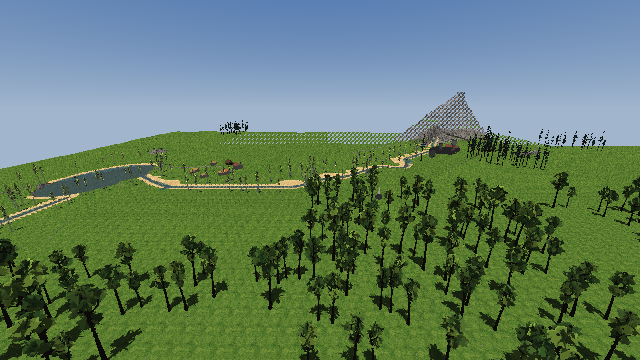
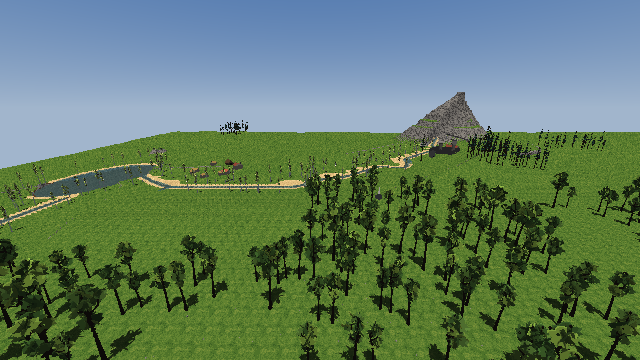
render: the checkerboard on the crag was the LOD dissolve caught in flight
The lead read a regular dither over the crag and the far terrain edge in the
first archived cloud frame and named two candidates: a cross-fade that never
completes, or the straddle-ring clip (293bba5) letting node and chunk draw the
same ground with one of them dissolving. The counterfactual separates them for
the cost of one run (Rule 30b): hold the SAME vantage stationary and re-shoot.
It comes back solid. So the fade does complete and nothing is double-drawing —
what the frame caught was the dissolve mid-motion.

The mistake was in reading TourStep::wait_frames as "long enough to settle"
when it only ever meant "frames rendered". LOD_FADE_SECONDS is 0.6 s, which
is 36 frames, so 75 looked generous — but far nodes are still ARRIVING from
core at frame 75, and each one starts its dissolve when it lands, not when the
camera stopped. Settle time is streaming latency PLUS the fade. The cloud probe
now waits 300 frames, and all six archived frames are re-shot from that hold.

Also disclosed in the acceptance README, because this is not a cloud fact: any
agent citing a far view is exposed to it, and the frame that showed it was
mine only by accident.

Frames replaced (same names, same recipes, settled): the drift pair now reads
cleanly — at t0 the valley floor is lit with the shadow edge off to the
south-west, at t30 a distinct shadow band has crossed the mid-ground and the
foreground has come up.

Changed region(s): [[0.375, 0.275, 0.75, 0.3972], [0.75, 0.3667, 1.0, 0.4278]]

diff --git a/engine/render/sources/Tour.cpp b/engine/render/sources/Tour.cpp
@@ -1,6 +1,6 @@
 /*
 Created: 09:08:2026 - 00:45:00
-Last updated: 10:08:2026 - 03:11:00
+Last updated: 10:08:2026 - 11:10:53
 Module: engine/render
 File: engine/render/sources/Tour.cpp
 
@@ -51,6 +51,15 @@ UPD:
   acceptance vantage, aimed at a MIXED background rather than at a chart.
 - 10:08:2026 - 03:11:00: cloud_probe_steps() (DFN_CLOUD_PROBE=1) — the W4
   shoot: shadow-patterned valley floor + upwind cumulus horizon.
+- 10:08:2026 - 11:10:53: cloud probe waits 300 frames, not 75/30. The lead read a
+  CHECKERBOARD over the crag in the first archived frame. It is the LOD
+  screen-door cross-fade photographed in flight, not a stuck fade and not two
+  systems drawing the same ground: held stationary the same vantage comes back
+  solid, which is the counterfactual that separates them (Rule 30b). The
+  frame count was being read as "long enough to settle" when it only ever
+  meant "frames rendered"; far nodes are still ARRIVING from core at frame 75,
+  and each starts its 0.6 s dissolve when it lands, so the settle time is
+  streaming latency PLUS the fade, not the fade alone.
 */
 
 #include "engine/render/sources/Tour.h"
@@ -297,13 +306,13 @@ std::vector<TourStep> Tour::cloud_probe_steps() {
     // (the W4 acceptance wording). Shot at noon (DFN_TIME=0.5) the sun is
     // near-overhead, so sheet and shadow line up visibly in one frame.
     steps.push_back({"cloud_shadows_valley", {pos.x, 85.0f, pos.y},
-                     aim_yaw(pos, {500.0f, 380.0f}), -0.30f, 75, true});
+                     aim_yaw(pos, {500.0f, 380.0f}), -0.30f, 300, true});
     // (2) THE UPWIND FRAME: same standpoint aimed into the wind (the default
     // wind blows from the WNW: WindModel's {0.87, 0.50} heading), pitched up
     // for sky headroom. This is where the cumulus announcement must stand
     // (W2.3) and where both sheets show their parallax and drift.
     steps.push_back({"cumulus_upwind", {pos.x, 85.0f, pos.y},
-                     -1.05f, 0.12f, 30, true});
+                     -1.05f, 0.12f, 300, true});
     return steps;
 }
 

diff --git a/docs/acceptance/README.md b/docs/acceptance/README.md
@@ -1,6 +1,6 @@
 <!--
 Created: 10:08:2026 - 10:35:51
-Last updated: 10:08:2026 - 11:42:00
+Last updated: 10:08:2026 - 11:12:17
 -->
 <!--
 UPD:
@@ -11,6 +11,9 @@ UPD:
   горизонте), пара по сносу, контроль cover=0, закат и ночь.
 - 10:08:2026 - 11:42:00: Поправка к рядам look-down: торс занимает 63 % кадра, а
   не 100 %, как было записано в 4a44c26 (нашёл sim при проверке моей посылки).
+- 10:08:2026 - 11:12:17: Кадры облаков переотсняты после того, как ведущий увидел в них
+  «шахматку» по крагу — это растворение LOD, снятое НА ЛЕТУ; добавлен раздел
+  о том, сколько кадров ждать перед снимком.
 -->
 
 # Архив приёмочных кадров
@@ -35,6 +38,19 @@ UPD:
 | `clouds-control-cover0-*.png` | КОНТРОЛЬ (правило 30): `DFN_CLOUD=0` убирает лист, кучевые И тени с земли ОДНИМ движением — потому что это одно поле. Тень, пережившая cover=0, была бы дефектом «двух копий» | `... DFN_CLOUD=0 DFN_VISTIME=0` (кадр 00) |
 | `clouds-dusk-*.png` | Облака краснеют с небом: палитра листа берётся из того же `u_sunColor`, которым освещена земля, поэтому расходиться им не с чем | `... DFN_TIME=0.78` (кадр 01) |
 | `clouds-night-stars-*.png` | Ночью облака темнеют и ЗАКРЫВАЮТ звёзды: звёзды видны в разрывах и не видны на облаках. Отдельного гейта для звёзд нет — облака просто смешиваются поверх них | `... DFN_TIME=0.0 DFN_MOON=0.5 DFN_CLOUD=0.40` (кадр 01) |
+
+## Сколько ждать перед снимком
+
+Первая партия облачных кадров была снята через 75 и 30 кадров ожидания, и по
+крагу шла регулярная ШАХМАТКА. Это не залипший fade и не «две системы рисуют
+одну землю»: та же точка, снятая неподвижно через 300 кадров, приходит сплошной
+— контрправило (30b) разводит эти две версии за один прогон. Счётчик
+`TourStep::wait_frames` читали как «успело устояться», а он означает только
+«кадров отрисовано»: дальние узлы всё ещё ПРИЕЗЖАЮТ от core на 75-м кадре, и
+каждый начинает свои `LOD_FADE_SECONDS` = 0.6 с растворения тогда, когда
+приехал. Время устаканивания = задержка стриминга ПЛЮС растворение, а не одно
+растворение. Для дальних видов 300 кадров хватает; кадр с чужим дефектом не
+может ничего заверить, поэтому все шесть кадров ниже переотсняты.
 
 ## Как кадр приводится к 640×360
 
